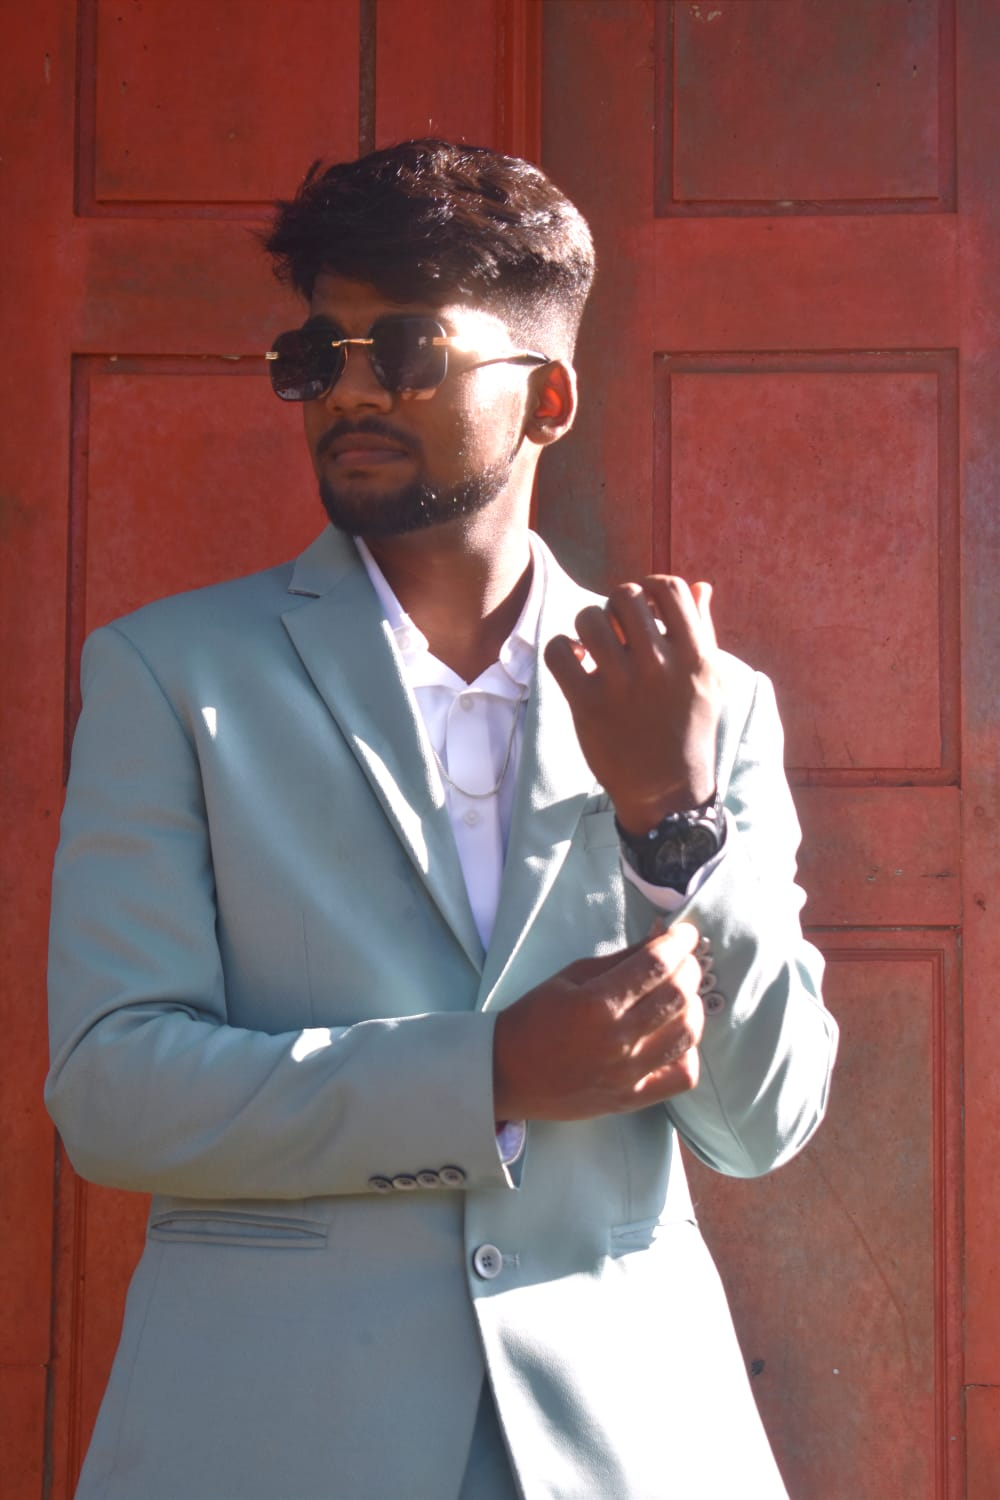
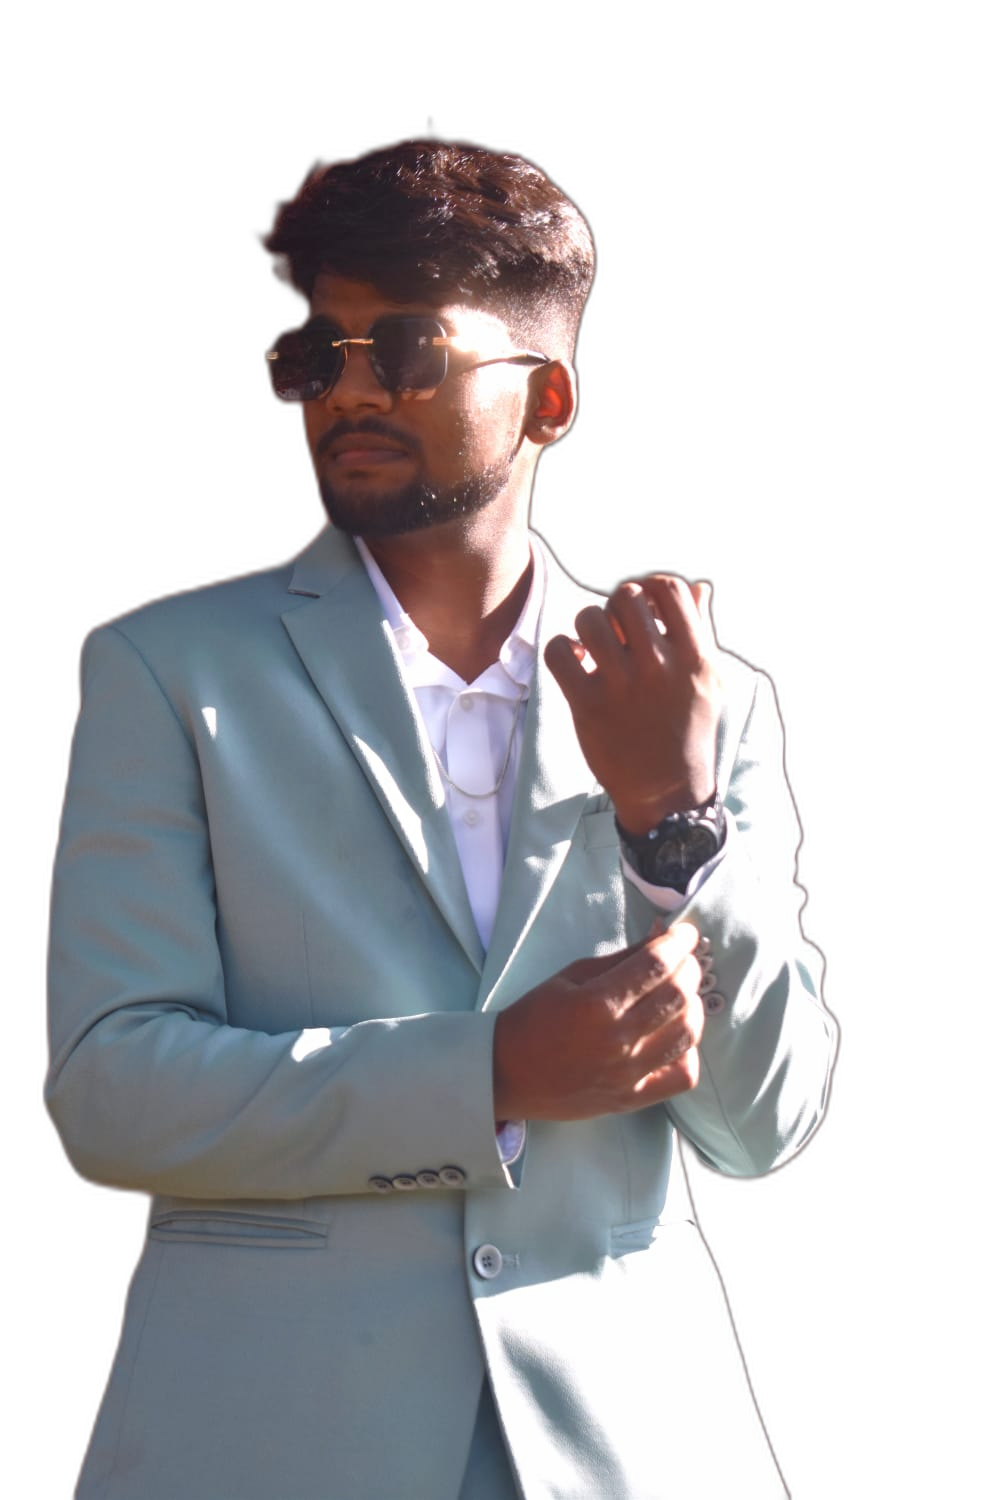
Remove hero shatter effect, use transparent cutout for profile photo
Replace PhotoBreak's mouse-triggered particle shatter on the hero
photo with a plain image, and strip the background from me.png so
it blends into the dark page.

diff --git a/src/sections/Hero.jsx b/src/sections/Hero.jsx
@@ -1,7 +1,6 @@
 import { useEffect, useRef } from 'react';
 import gsap from 'gsap';
 import { hero, profile } from '../data/content.js';
-import PhotoBreak from '../components/PhotoBreak.jsx';
 import { useReducedMotion } from '../hooks/useReducedMotion.js';
 
 const photoSrc = `${import.meta.env.BASE_URL}${profile.photo}`;
@@ -74,7 +73,14 @@ export default function Hero() {
             aria-hidden="true"
           />
           <div className="relative h-full w-full">
-            <PhotoBreak src={photoSrc} />
+            <img
+              src={photoSrc}
+              alt={profile.name}
+              className="mx-auto h-full max-h-[480px] object-contain"
+              onError={(e) => {
+                e.currentTarget.style.display = 'none';
+              }}
+            />
           </div>
         </div>
       </div>
